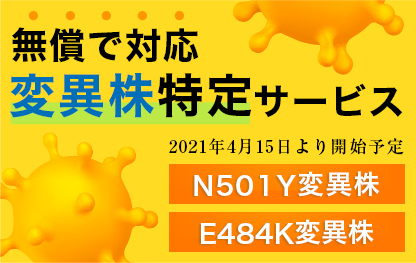
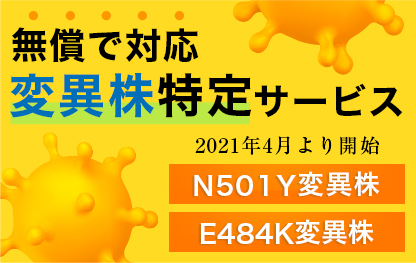
GWの案内削除、変異株修正

Changed region(s): [[0.4062, 0.5171, 0.9688, 0.6084]]

diff --git a/css/style.css b/css/style.css
@@ -15737,6 +15737,21 @@ input, select {
   }
 }
 
+.p-services-list {
+  margin: 1.22rem auto 0;
+  max-width: 730px;
+}
+
+.p-services-list__item {
+  font-size: 1.04rem;
+  padding-left: 1em;
+  text-indent: -1em;
+}
+
+.p-services-list__item:first-of-type {
+  margin-bottom: .65rem;
+}
+
 .p-top-menu-area {
   padding: 3.9375rem 0;
 }

diff --git a/scss/project/_top.scss b/scss/project/_top.scss
@@ -37,6 +37,19 @@
     }
 }
 
+.p-services-list {
+    max-width: 730px;
+    margin: 1.22rem auto 0;
+    &__item {
+        padding-left: 1em;
+        text-indent: -1em;
+        font-size: 1.04rem;
+        &:first-of-type {
+            margin-bottom: .65rem;
+        }
+    }
+}
+
 .p-top-menu-area {
     padding: rem(63) 0;
 

diff --git a/index.php b/index.php
@@ -65,7 +65,7 @@
     <div class="p-free-inspection  p-bg-light-blue">
 
         <div class="l-inner">
-                <h3 class="p-services-ttl u-tc u-fw600">2021年4月15日より実施開始予定</h3>
+                <h3 class="p-services-ttl u-tc u-fw600">2021年4月より実施開始</h3>
                 <p class="p-services-catch u-tc u-fw600">新たな社会貢献活動として変異体の<br class="u-sp">特定サービスを無償で開始いたします</p>
 
                 <div class="p-services-img">
@@ -74,6 +74,11 @@
                 </div>
                 <!-- ./p-services-img -->
                 <p class="p-services-bottom">N501Y、E484K変異体の特定サービスは、当院のPCR検査の通常検査・迅速検査を<br class="">ご利用いただいた方のみご利用いただけます。</p>
+
+                <ul class="p-services-list">
+                    <li class="p-services-list__item ">※変異株の結果については行政の申請のみ行っており、ご本人様へのお伝えは致しておりません。<br>お知りになりたい方は直接<a href="<?php echo home_url( '/' ); ?>contact" class="c-pink " target="_blank">クリニックまでお問い合わせ</a>ください。</li>
+                    <li class="p-services-list__item">※ウイルス量によっては検査不適応の場合がございます。予めご了承ください。</li>
+                </ul>
         </div>
         <!-- ./l-inner -->
     </div>

diff --git a/header.php b/header.php
@@ -264,6 +264,11 @@ jQuery(document).ready(function(){
 <div class="l-wrapper">
 
 
+
+<style>
+
+/*
+
 <!--
 
 
@@ -317,6 +322,15 @@ jQuery(document).ready(function(){
 <!-- ./__yearEnd -->
 
 
+*/
+
+
+</style>
+
+
+
+
+
 
 
 
@@ -335,8 +349,8 @@ jQuery(document).ready(function(){
 </a>
 
 <a href="#link-free-services" class="p-heat-bnr__img">
-  <img src="<?php echo get_template_directory_uri(); ?>/img/common/c_survise_bnr.jpg?484566464646464" alt="無償で対応変異株特定サービス" class="u-pc">
-  <img src="<?php echo get_template_directory_uri(); ?>/img/common/c_survise_bnr_sp.jpg?555555555555" alt="無償で対応変異株特定サービス" class="u-sp">
+  <img src="<?php echo get_template_directory_uri(); ?>/img/common/c_survise_bnr.jpg?495555548852144" alt="無償で対応変異株特定サービス" class="u-pc">
+  <img src="<?php echo get_template_directory_uri(); ?>/img/common/c_survise_bnr_sp.jpg?49495856526149954" alt="無償で対応変異株特定サービス" class="u-sp">
 </a>
 
 
